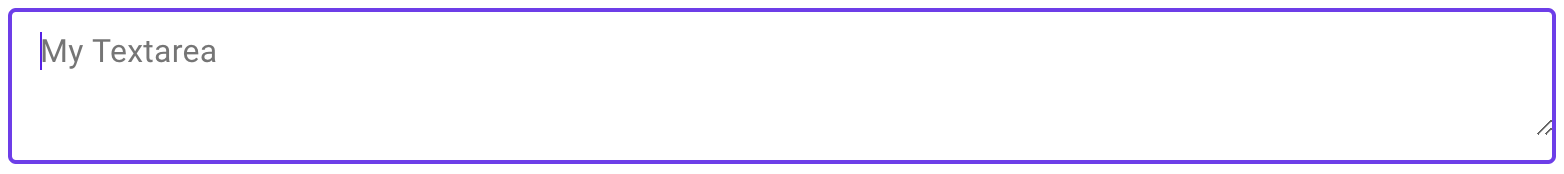
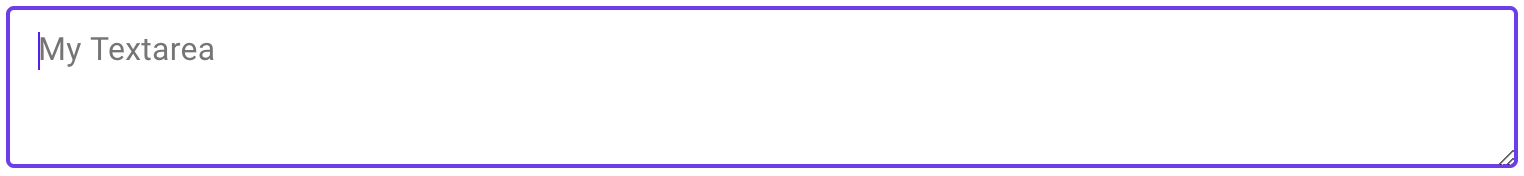
more fixes for PR

Changed region(s): [[0.0, 0.0287, 1.0, 0.977], [0.0, 0.1724, 0.1542, 0.4023]]

diff --git a/packages/textarea/src/mwc-textarea.scss b/packages/textarea/src/mwc-textarea.scss
@@ -75,16 +75,18 @@ limitations under the License.
   height: 100%;
 
   &.mdc-text-field--outlined {
-    .mdc-text-field__input {
-      margin-bottom: 14px;
-      padding-bottom: 0px;
-    }
+    &:not(.mdc-text-field--fullwidth) {
+      .mdc-text-field__input {
+        margin-bottom: 14px;
+        padding-bottom: 0px;
+      }
 
-    .mdc-text-field-character-counter {
-      bottom: 14px;
+      .mdc-text-field-character-counter {
+        bottom: 14px;
 
-      &+.mdc-text-field__input {
-        margin-bottom: 41px;
+        &+.mdc-text-field__input {
+          margin-bottom: 41px;
+        }
       }
     }
   }

diff --git a/packages/textarea/README.md b/packages/textarea/README.md
@@ -115,7 +115,7 @@ npm install @material/mwc-textarea
 
 ### Fullwidth
 
-<img src="images/fullwidth-outlined.png" width="782px">
+<img src="images/fullwidth-outlined.png" width="762px">
 
 ```html
 <!-- Note: Fullwidth does not support label; only placeholder -->
